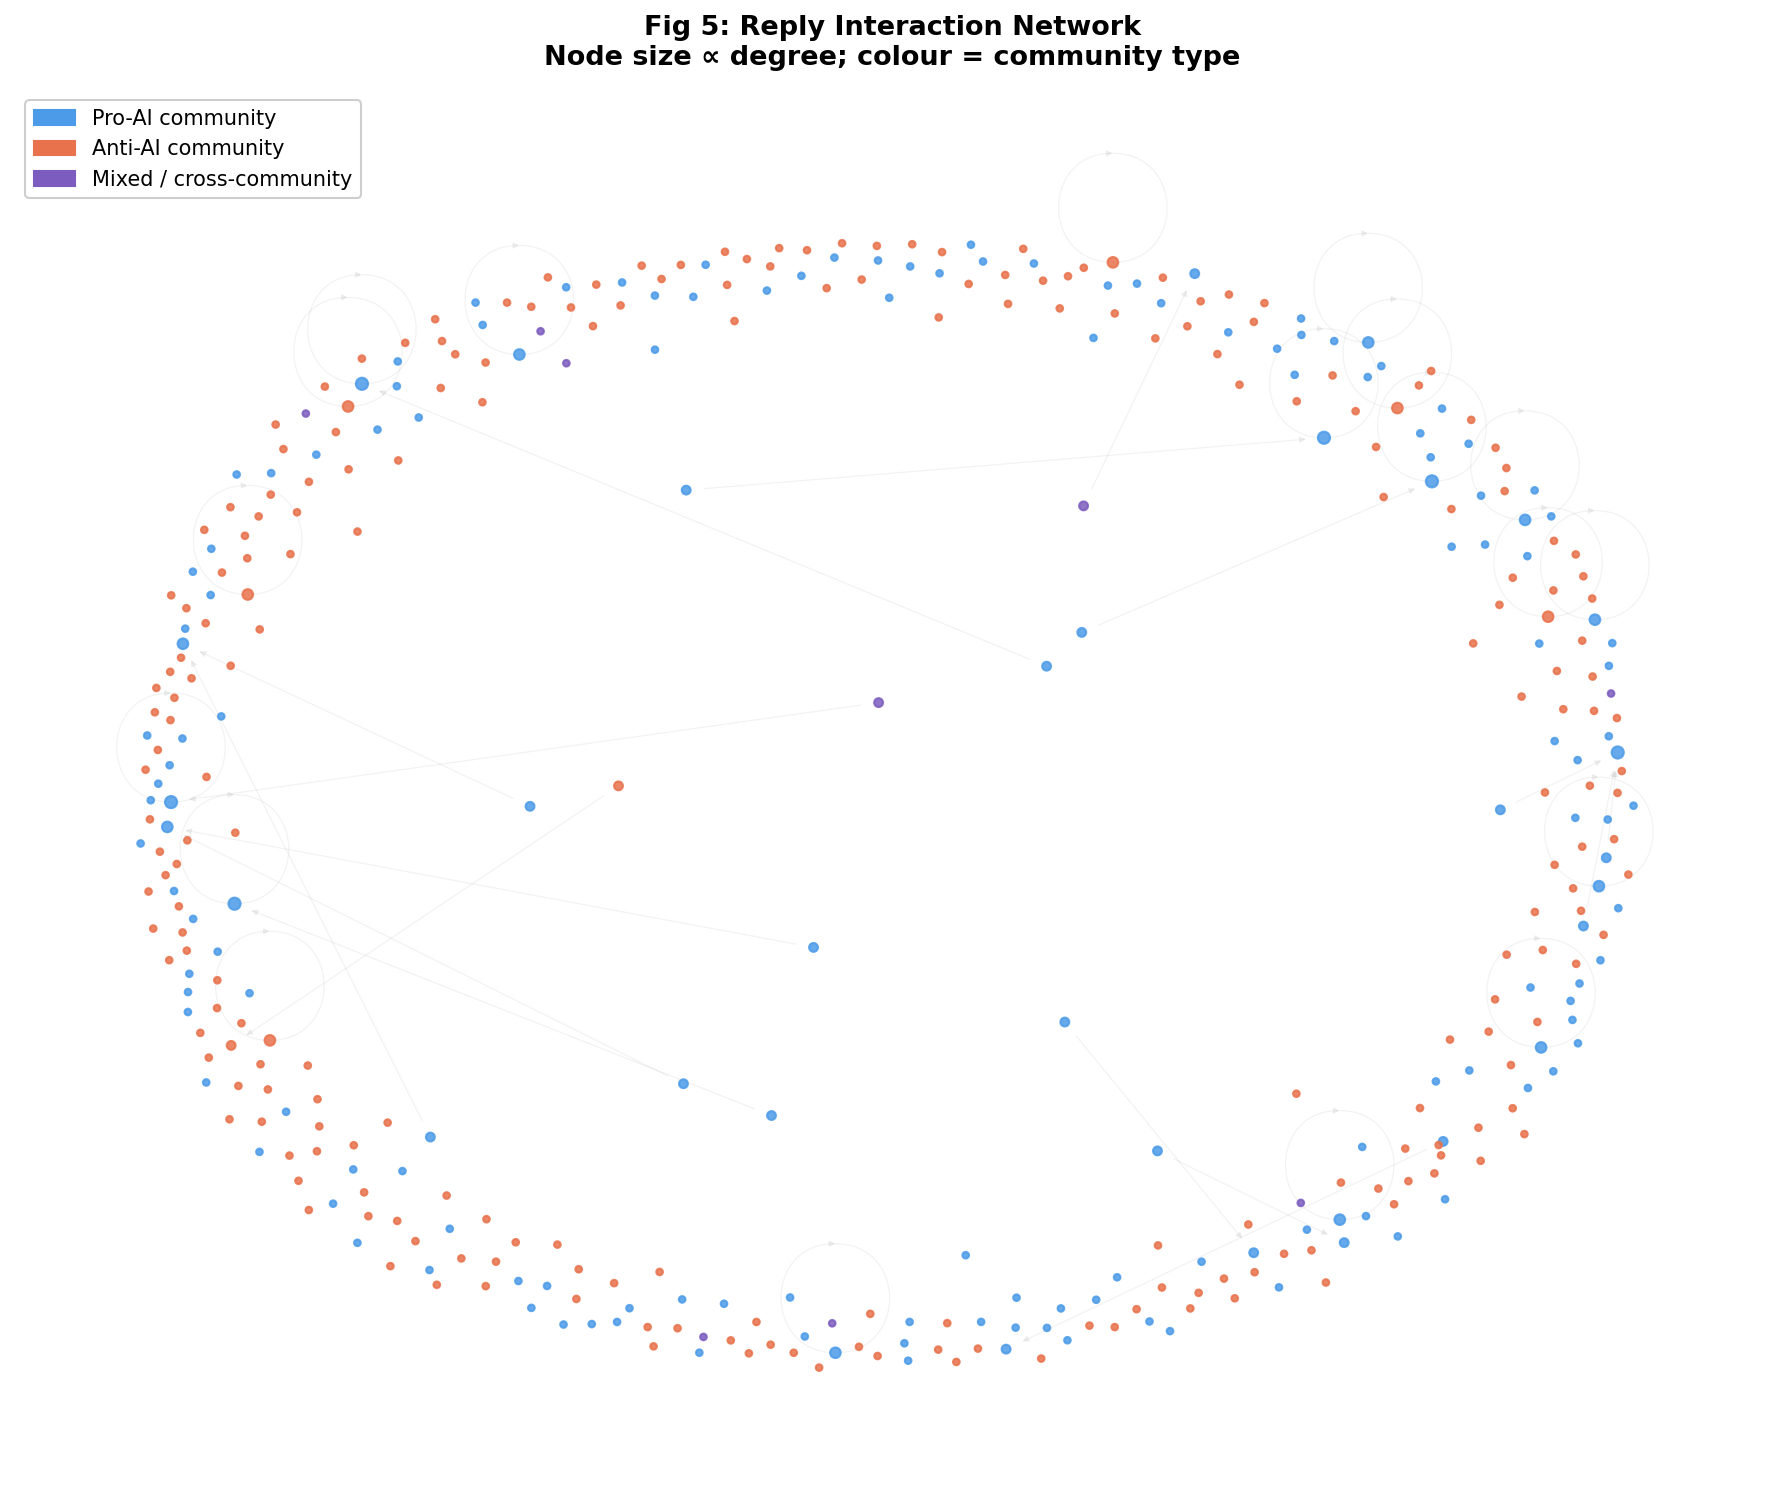
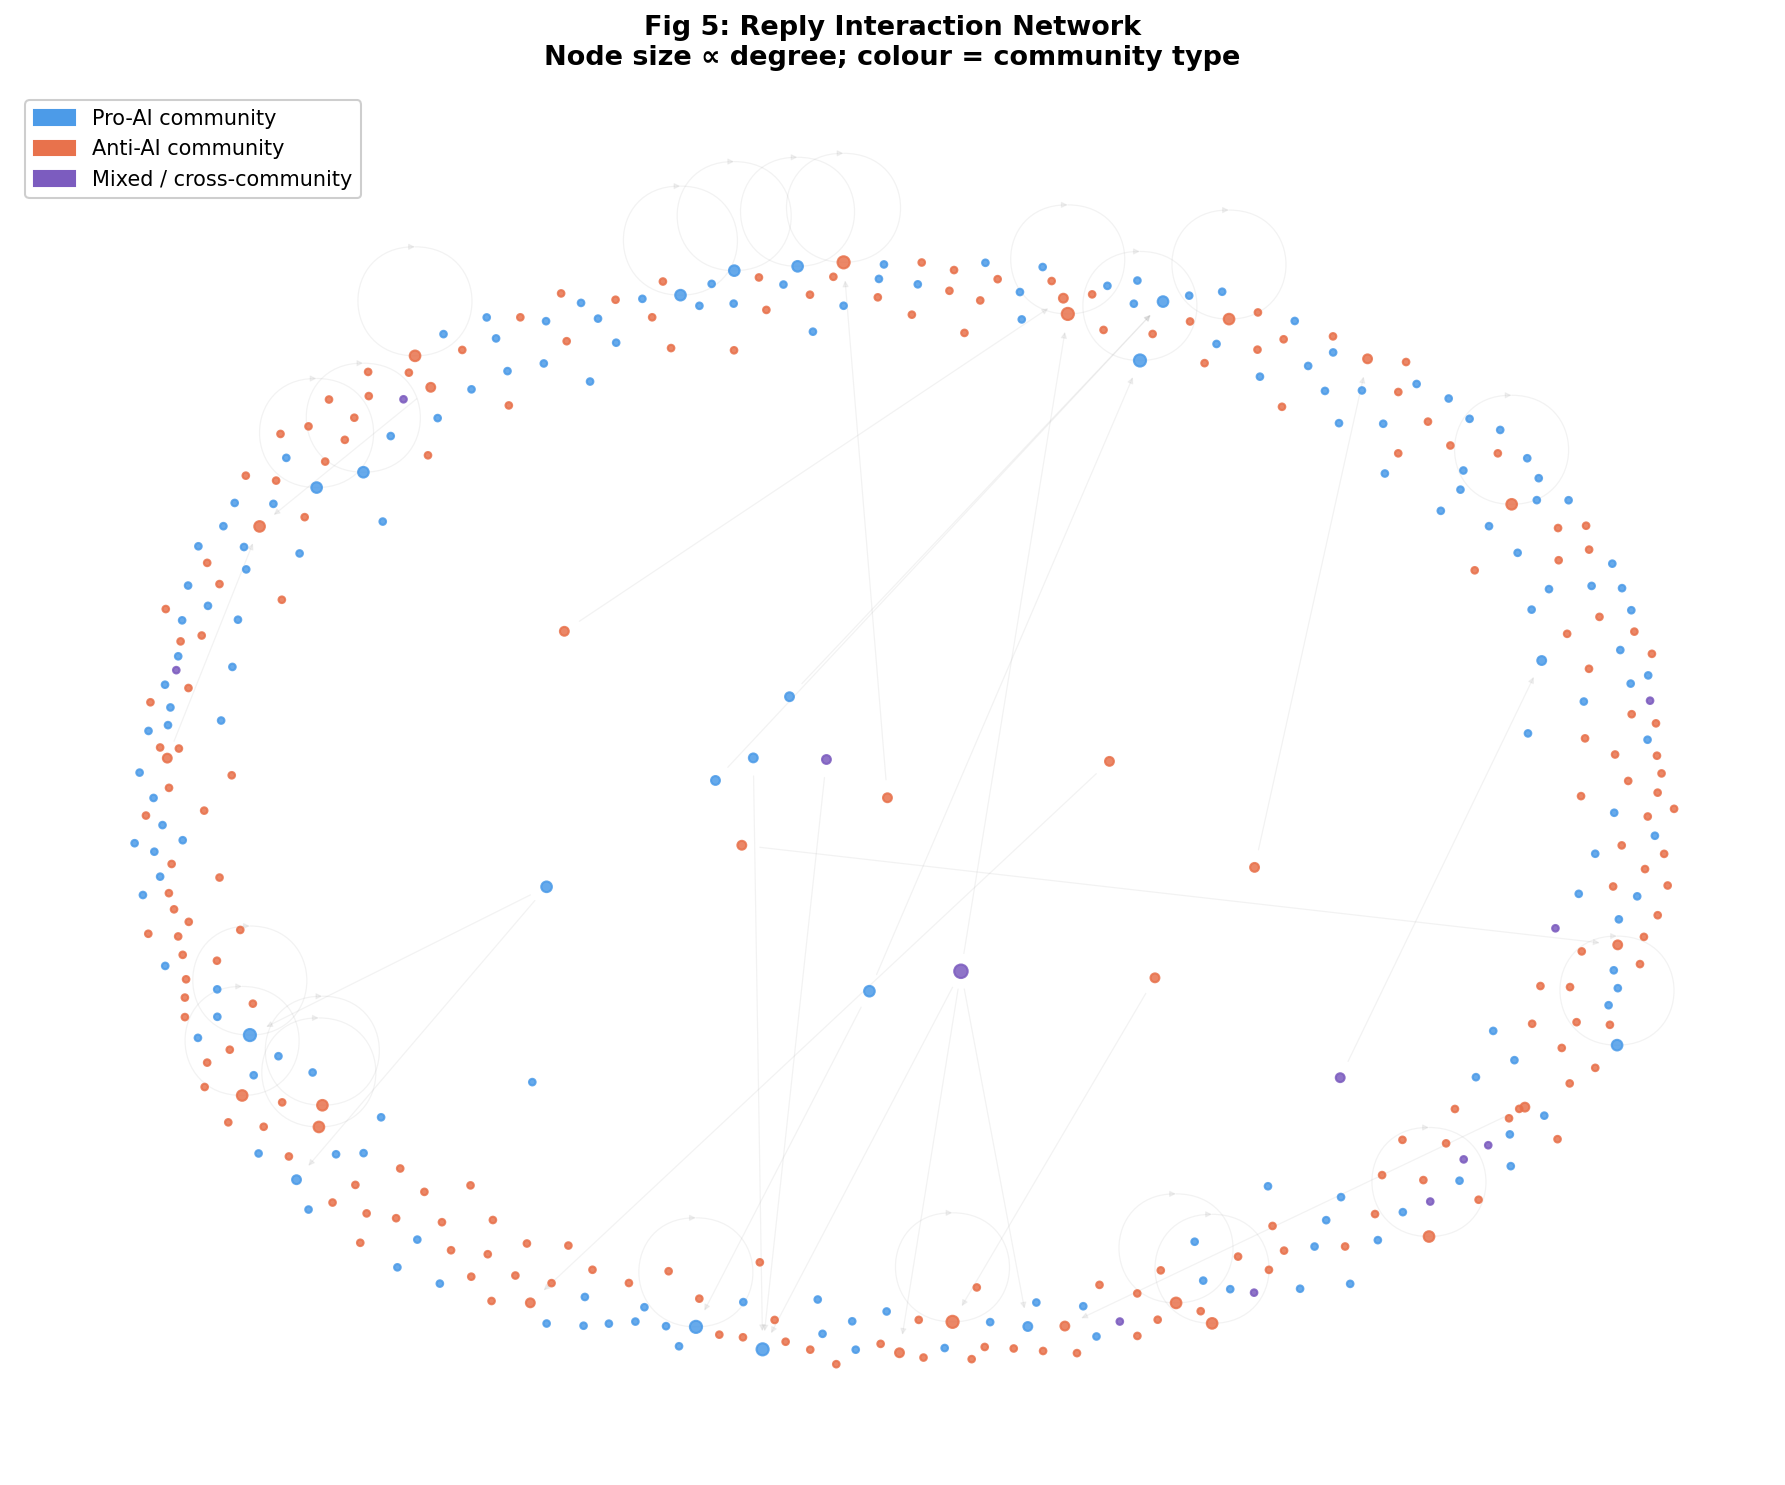
fixing code n png

diff --git a/scripts/04_graph_visualization.py b/scripts/04_graph_visualization.py
@@ -132,20 +132,20 @@ def sentiment_map(comments_df):
 
 def fig1_global_topology(G_proai, G_anti):
     print("→ Fig 1: Global Topology …")
- 
+
     s_pro  = graph_stats(G_proai)
     s_anti = graph_stats(G_anti)
- 
+
     large_metrics = ["Nodes", "Edges", "Largest Component"]
     small_metrics = ["Density (×10⁻³)", "Avg Degree", "Max Degree", "Components"]
- 
-    fig = plt.figure(figsize=(14, 7))
+
+    fig = plt.figure(figsize=(14, 8))
     from matplotlib.gridspec import GridSpec
-    gs = GridSpec(2, 2, figure=fig, height_ratios=[3, 1], hspace=0.55, wspace=0.35)
+    gs = GridSpec(2, 2, figure=fig, height_ratios=[3, 1.2], hspace=0.6, wspace=0.35)
     ax1 = fig.add_subplot(gs[0, 0])
     ax2 = fig.add_subplot(gs[0, 1])
-    ax3 = fig.add_subplot(gs[1, :])   # full width info panel
- 
+    ax3 = fig.add_subplot(gs[1, :])
+
     for ax, metrics in [(ax1, large_metrics), (ax2, small_metrics)]:
         x     = np.arange(len(metrics))
         width = 0.35
@@ -163,23 +163,23 @@ def fig1_global_topology(G_proai, G_anti):
         ax.set_ylabel("Value")
         ax.legend(framealpha=0.9, fontsize=8)
         ax.set_axisbelow(True)
- 
+
     # network construction metadata panel
     ax3.axis("off")
     info_lines = [
         ("Nodes",  "YouTube users who posted or received at least one reply"),
-        ("Edges",  "Directed reply interactions  (User A replied to User B)"),
+        ("Edges",  "Directed reply interactions (User A replied to User B)"),
         ("Type",   "Directed (DiGraph): reply direction is meaningful for information flow analysis"),
         ("Weight", "Unweighted: edge presence captures interaction structure; frequency not required for topology"),
         ("Filter", "Thread level balanced sampling, isolated nodes retained, no degree threshold applied"),
-        ("Data",   f"From : network_edges_balanced.csv , {s_pro['Edges']+s_anti['Edges']:,} total edges  , {s_pro['Nodes']+s_anti['Nodes']:,} unique users across both subgraphs"),
+        ("Data",   f"From: network_edges_balanced.csv,  {s_pro['Edges']+s_anti['Edges']:,} total edges,  {s_pro['Nodes']+s_anti['Nodes']:,} unique users across both subgraphs"),
     ]
-    col_x = [0.01, 0.11]
-    row_y = np.linspace(0.82, 0.08, len(info_lines))
- 
+    col_x = [0.01, 0.10]
+    row_y = np.linspace(0.75, 0.05, len(info_lines))
+
     ax3.add_patch(plt.Rectangle((0, 0), 1, 1, transform=ax3.transAxes,
                                  facecolor="#f4f7fb", zorder=0))
-    ax3.text(0.5, 0.96, "Network Construction Summary",
+    ax3.text(0.5, 0.93, "Network Construction Summary",
              ha="center", va="top", fontsize=9, fontweight="bold",
              transform=ax3.transAxes, color="#2E4057")
     for (label, desc), y in zip(info_lines, row_y):
@@ -187,14 +187,13 @@ def fig1_global_topology(G_proai, G_anti):
                  transform=ax3.transAxes, color="#333", va="center")
         ax3.text(col_x[1], y, desc, fontsize=8,
                  transform=ax3.transAxes, color="#555", va="center")
- 
+
     fig.suptitle("Fig 1: Global Network Topology: Pro-AI vs Anti-AI",
                  fontweight="bold", fontsize=13, y=0.99)
     out = OUTPUT_DIR / "fig1_global_topology.png"
     plt.savefig(out, bbox_inches="tight")
     plt.close()
     print(f"   Saved {out.name}")
-    
 # degree distribution plots (log-log) for both subgraphs, with power-law fit lines
 
 def fig2_degree_distribution(G_proai, G_anti):